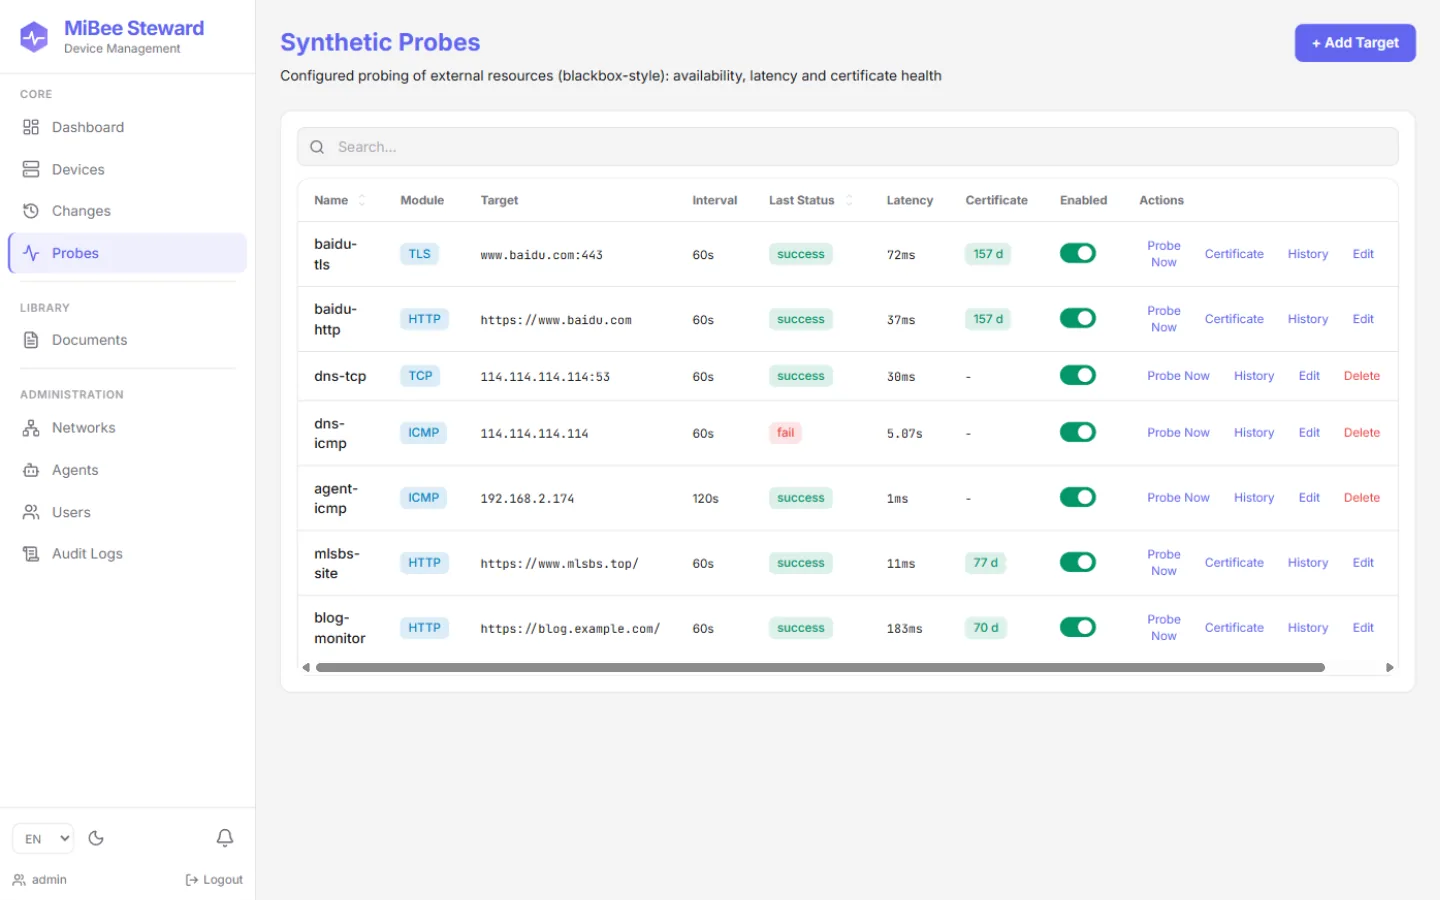
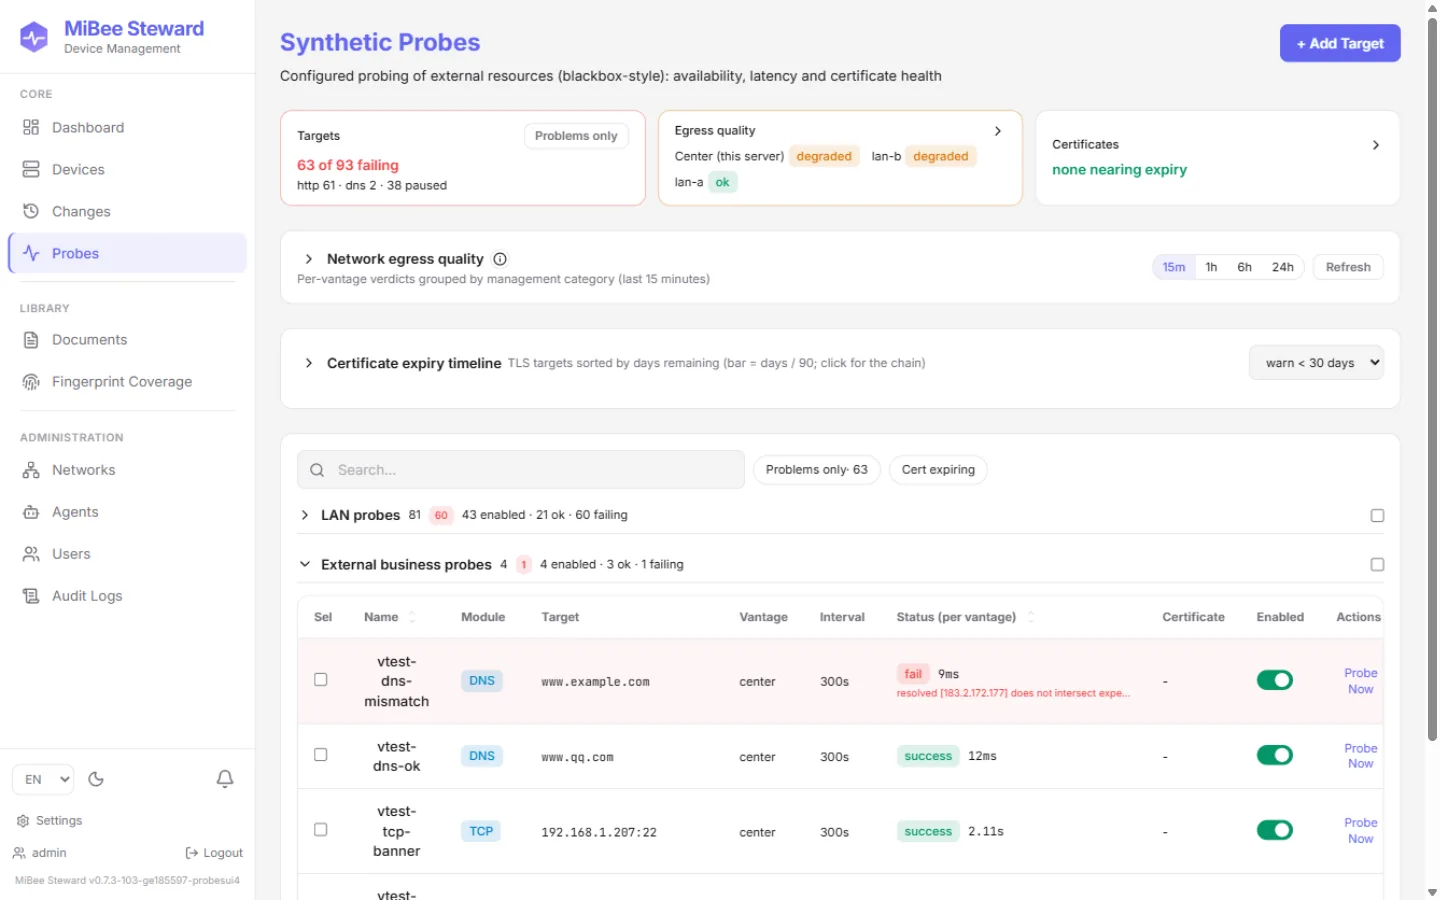
docs(probes): re-shot sanitized screenshots for the new layout + playbook walkthrough refresh
probes.webp (1440x900, health-first overview with the external section
expanded) and pb-probes.webp (1280x800, egress-quality matrices with
window chips) captured through scripts/docs_sanitize_proxy.py against
the test rig; the map (private, outside the repo) now also rewrites
the real probe target names, site domains and network names — verified
zero leakage of hostnames/domains/LAN ranges in the rendered DOM
before capture. en/zh image copies both updated. The playbooks
Scenario 5 walkthrough no longer describes the removed per-module
summary cards and points cert-chain entry at the row badge or the
timeline panel. CHANGELOG en/zh + mirror note the refresh.

diff --git a/CHANGELOG.md b/CHANGELOG.md
@@ -18,7 +18,7 @@ and this project adheres to [Semantic Versioning](https://semver.org/spec/v2.0.0
 - **Probe doc drift fixed (#610)**: the 拨测/probes sections in `docs/{en,zh}/web-ui.md` had claimed DNS support since #277-era copy edits while no dns module existed — with #605 shipped the text becomes true, and every probe doc surface (features, api, architecture, distributed, configuration, agent-rs, introduction, comparison, product-scope) now states the module set exactly as http/tls/tcp/icmp/dns plus the options/binding/quality surfaces; drifted enum comments in `openapi.yaml` were corrected in place.
 
 ### Changed
-- **Probes page redesigned health-first (2026-10-23, tightened 2026-10-24 after rig feedback)**: the page now answers "any problems right now" before anything else. A summary bar leads with the failing-target count (per-module breakdown, one-click *Problems only* filter), the worst egress verdict per vantage, and certificate expiry counts. The target list sorts failing/timeout rows to the top of their section with an error tint, prints a failing track's error message directly in the status cell (full text on hover), and clicking a target's name opens an expandable troubleshoot row — per-vantage latest results, full error text, quick actions (probe / history / certificate / edit) without opening the history modal; the certificate column's days-left badge is itself the chain button now. The per-module overview cards (a success rate riding on single-sample noise, duplicating the section summaries) are gone; their one useful signal survives as the failing-by-module breakdown on the summary bar. **Layout iteration 2 (user feedback: "make it friendlier, collapse by default")**: the egress-quality and certificate panels moved up between the summary bar and the list as one-line collapsible headers, the three list sections default COLLAPSED — each header carries its count, a red failing badge, and the enabled/ok/failing summary so nothing is lost folded — and search/filter matches auto-expand the sections they hit (folding back when cleared). The trend is a collapsible sub-block inside the quality panel whose query runs only on first open. Pure presentation — no API, schema or config changes; the page suite pins the behavior (31 tests, 33 with the trend).
+- **Probes page redesigned health-first (2026-10-23, tightened 2026-10-24 after rig feedback)**: the page now answers "any problems right now" before anything else. A summary bar leads with the failing-target count (per-module breakdown, one-click *Problems only* filter), the worst egress verdict per vantage, and certificate expiry counts. The target list sorts failing/timeout rows to the top of their section with an error tint, prints a failing track's error message directly in the status cell (full text on hover), and clicking a target's name opens an expandable troubleshoot row — per-vantage latest results, full error text, quick actions (probe / history / certificate / edit) without opening the history modal; the certificate column's days-left badge is itself the chain button now. The per-module overview cards (a success rate riding on single-sample noise, duplicating the section summaries) are gone; their one useful signal survives as the failing-by-module breakdown on the summary bar. **Layout iteration 2 (user feedback: "make it friendlier, collapse by default")**: the egress-quality and certificate panels moved up between the summary bar and the list as one-line collapsible headers, the three list sections default COLLAPSED — each header carries its count, a red failing badge, and the enabled/ok/failing summary so nothing is lost folded — and search/filter matches auto-expand the sections they hit (folding back when cleared). The trend is a collapsible sub-block inside the quality panel whose query runs only on first open. Pure presentation — no API, schema or config changes; the page suite pins the behavior (31 tests, 33 with the trend). Docs screenshots re-shot through the sanitizing proxy against the new layout (probes.webp + pb-probes.webp, en/zh) and the playbooks walkthrough rewritten to match; web-ui/api already updated bilingually.
 
 ### Fixed
 - **Probes page 429 storm on autogen fleets (field-reported 2026-10-24)**: the certificate badges fired one `GET /probe-targets/{id}/certificates` per tls/http target on EVERY 10-second list poll — fine at hand-managed scale, but an autogen fleet (50+ http targets on the rig) burst 50+ parallel requests per poll and blew the global 600/min/IP rate limit, filling the browser console with 429s. Certificates are collected by the probe engine per RUN, so the page now stamps each fetched cert with the target's `last_run_at` and refetches only targets whose run advanced — steady state is 1-2 requests per poll (the targets that actually ran), failures cache as empty until the next run (a rate-limited sweep cannot retry-loop), and even the cold-start sweep goes out in chunks of 5. Page test pins the once-per-run behavior (32 tests).

diff --git a/docs/en/changelog.md b/docs/en/changelog.md
@@ -18,7 +18,7 @@ and this project adheres to [Semantic Versioning](https://semver.org/spec/v2.0.0
 - **Probe doc drift fixed (#610)**: the 拨测/probes sections in `docs/{en,zh}/web-ui.md` had claimed DNS support since #277-era copy edits while no dns module existed — with #605 shipped the text becomes true, and every probe doc surface (features, api, architecture, distributed, configuration, agent-rs, introduction, comparison, product-scope) now states the module set exactly as http/tls/tcp/icmp/dns plus the options/binding/quality surfaces; drifted enum comments in `openapi.yaml` were corrected in place.
 
 ### Changed
-- **Probes page redesigned health-first (2026-10-23, tightened 2026-10-24 after rig feedback)**: the page now answers "any problems right now" before anything else. A summary bar leads with the failing-target count (per-module breakdown, one-click *Problems only* filter), the worst egress verdict per vantage, and certificate expiry counts. The target list sorts failing/timeout rows to the top of their section with an error tint, prints a failing track's error message directly in the status cell (full text on hover), and clicking a target's name opens an expandable troubleshoot row — per-vantage latest results, full error text, quick actions (probe / history / certificate / edit) without opening the history modal; the certificate column's days-left badge is itself the chain button now. The per-module overview cards (a success rate riding on single-sample noise, duplicating the section summaries) are gone; their one useful signal survives as the failing-by-module breakdown on the summary bar. **Layout iteration 2 (user feedback: "make it friendlier, collapse by default")**: the egress-quality and certificate panels moved up between the summary bar and the list as one-line collapsible headers, the three list sections default COLLAPSED — each header carries its count, a red failing badge, and the enabled/ok/failing summary so nothing is lost folded — and search/filter matches auto-expand the sections they hit (folding back when cleared). The trend is a collapsible sub-block inside the quality panel whose query runs only on first open. Pure presentation — no API, schema or config changes; the page suite pins the behavior (31 tests, 33 with the trend).
+- **Probes page redesigned health-first (2026-10-23, tightened 2026-10-24 after rig feedback)**: the page now answers "any problems right now" before anything else. A summary bar leads with the failing-target count (per-module breakdown, one-click *Problems only* filter), the worst egress verdict per vantage, and certificate expiry counts. The target list sorts failing/timeout rows to the top of their section with an error tint, prints a failing track's error message directly in the status cell (full text on hover), and clicking a target's name opens an expandable troubleshoot row — per-vantage latest results, full error text, quick actions (probe / history / certificate / edit) without opening the history modal; the certificate column's days-left badge is itself the chain button now. The per-module overview cards (a success rate riding on single-sample noise, duplicating the section summaries) are gone; their one useful signal survives as the failing-by-module breakdown on the summary bar. **Layout iteration 2 (user feedback: "make it friendlier, collapse by default")**: the egress-quality and certificate panels moved up between the summary bar and the list as one-line collapsible headers, the three list sections default COLLAPSED — each header carries its count, a red failing badge, and the enabled/ok/failing summary so nothing is lost folded — and search/filter matches auto-expand the sections they hit (folding back when cleared). The trend is a collapsible sub-block inside the quality panel whose query runs only on first open. Pure presentation — no API, schema or config changes; the page suite pins the behavior (31 tests, 33 with the trend). Docs screenshots re-shot through the sanitizing proxy against the new layout (probes.webp + pb-probes.webp, en/zh) and the playbooks walkthrough rewritten to match; web-ui/api already updated bilingually.
 
 ### Fixed
 - **Probes page 429 storm on autogen fleets (field-reported 2026-10-24)**: the certificate badges fired one `GET /probe-targets/{id}/certificates` per tls/http target on EVERY 10-second list poll — fine at hand-managed scale, but an autogen fleet (50+ http targets on the rig) burst 50+ parallel requests per poll and blew the global 600/min/IP rate limit, filling the browser console with 429s. Certificates are collected by the probe engine per RUN, so the page now stamps each fetched cert with the target's `last_run_at` and refetches only targets whose run advanced — steady state is 1-2 requests per poll (the targets that actually ran), failures cache as empty until the next run (a rate-limited sweep cannot retry-loop), and even the cold-start sweep goes out in chunks of 5. Page test pins the once-per-run behavior (32 tests).

diff --git a/docs/zh/changelog.md b/docs/zh/changelog.md
@@ -18,7 +18,7 @@
 - **拨测文档漂移修复（#610）**：`docs/{en,zh}/web-ui.md` 的拨测小节自 #277 时代的文案改写起就声称支持 DNS，而 dns 模块并不存在——随 #605 落地，该文本终成事实；所有拨测文档面（features、api、architecture、distributed、configuration、agent-rs、introduction、comparison、product-scope）现在都精确表述模块集为 http/tls/tcp/icmp/dns 及选项/绑定/质量各面；`openapi.yaml` 中漂移的枚举注释已就地修正。
 
 ### Changed
-- **拨测页重构为健康优先（2026-10-23，2026-10-24 按 rig 反馈收紧）**：页面现在先回答「现在有没有问题」。顶部总览条领先展示异常目标数（附按模块细分与一键「只看异常」过滤）、每个网络视角的最差出口判定、证书临期计数。目标列表把失败/超时行置顶并加异常底色，失败轨道把错误信息直接印在状态格里（悬停见全文），点击目标名称展开排障行——各视角最新结果、完整错误文本、快捷操作（立即探测 / 历史 / 证书 / 编辑），无需打开历史弹窗；证书列的天数徽章本身即证书链按钮。按模块的总览卡片（建立在单点采样噪声上的成功率，且与分区汇总重复）移除，其唯一有效信号以总览条上的按模块异常细分保留。**第二轮布局迭代（用户反馈：「更友好、默认折叠」）**：出口质量与证书面板上移到总览条与列表之间、折叠为一行标题；三个列表分区默认收起——每个表头带计数、异常红色徽章与「启用/正常/异常」汇总，收起不丢失信号；搜索/过滤命中的分区自动展开、清除后收回。趋势成为质量面板内的子折叠块，查询仅在首次展开时执行。纯展示层变更——无 API、模式或配置改动；页面测试 31 个钉住行为。
+- **拨测页重构为健康优先（2026-10-23，2026-10-24 按 rig 反馈收紧）**：页面现在先回答「现在有没有问题」。顶部总览条领先展示异常目标数（附按模块细分与一键「只看异常」过滤）、每个网络视角的最差出口判定、证书临期计数。目标列表把失败/超时行置顶并加异常底色，失败轨道把错误信息直接印在状态格里（悬停见全文），点击目标名称展开排障行——各视角最新结果、完整错误文本、快捷操作（立即探测 / 历史 / 证书 / 编辑），无需打开历史弹窗；证书列的天数徽章本身即证书链按钮。按模块的总览卡片（建立在单点采样噪声上的成功率，且与分区汇总重复）移除，其唯一有效信号以总览条上的按模块异常细分保留。**第二轮布局迭代（用户反馈：「更友好、默认折叠」）**：出口质量与证书面板上移到总览条与列表之间、折叠为一行标题；三个列表分区默认收起——每个表头带计数、异常红色徽章与「启用/正常/异常」汇总，收起不丢失信号；搜索/过滤命中的分区自动展开、清除后收回。趋势成为质量面板内的子折叠块，查询仅在首次展开时执行。纯展示层变更——无 API、模式或配置改动；页面测试 31 个钉住行为。文档截图经脱敏代理对新布局重拍（probes.webp 与 pb-probes.webp，en/zh），playbooks 演练段落同步改写；web-ui/api 已先行双语更新。
 
 ### Fixed
 - **拨测页在 autogen 舰队上的 429 风暴（用户报障 2026-10-24）**：证书徽章在每 10 秒的列表轮询中对每个 tls/http 目标各发一个 `GET /probe-targets/{id}/certificates`——手工管理规模下没问题，但 autogen 舰队（rig 上 50+ 个 http 目标）每轮并发 50+ 请求，打爆全局 600/分钟/IP 限流，浏览器控制台刷满 429。证书由探测引擎**每次运行**采集，现按目标的 `last_run_at` 盖章缓存、仅重取真正跑过的目标——稳态每轮 1-2 个请求；失败也缓存为空等下次运行（限流过的扫描不会重试循环）；冷启动扫描也按 5 个一批限并发。页面测试钉住"每次运行只拉一次"（32 个）。

diff --git a/docs/en/playbooks.md b/docs/en/playbooks.md
@@ -90,11 +90,11 @@ Beginner-friendly walkthroughs: a handful of real scenarios, each 5–15 minutes
    - `host:port` for TCP reachability, plain ICMP for connectivity;
    - DNS resolution (e.g. `example.com`) to watch your resolver path — optionally pin a public resolver or assert expected answer IPs.
    Keep the default interval (anything from 10s to 24h is available).
-2. Results arrive within seconds. The page top summarizes success rate and average latency per module; the target list below carries status, latency, and **cert-days-remaining badges**.
+2. Results arrive within seconds. The page opens collapsed on a health summary bar — the failing-target count with a one-click *Problems only* filter, the worst egress verdict per network vantage, and certificate-expiry counts. Expand a category section and failing rows sort to the top, error message printed right in the status cell; the egress-quality panel's matrices (lookback chips up to 24h) and its 7-day/30-day trend answer "is it just down now, or has it been like this all week".
 
    ![Probes overview](images/pb-probes.webp)
 
-3. Click any bar in the "certificate expiry timeline" to open the **full certificate chain** modal, leaf and intermediate CA subjects, issuers, serials, SANs, validity, with one-click PEM copy.
+3. Click a row's cert-days-remaining badge — or a bar in the "certificate expiry timeline" panel — to open the **full certificate chain** modal, leaf and intermediate CA subjects, issuers, serials, SANs, validity, with one-click PEM copy.
 
    ![Certificate chain](images/pb-probe-certchain.webp)
 

diff --git a/docs/zh/playbooks.md b/docs/zh/playbooks.md
@@ -90,11 +90,11 @@
    - TCP 端口连通性用 `host:port`，纯连通用 ICMP；
    - DNS 解析（如 `example.com`）盯解析链路--可指定公共解析器，或断言期望的应答 IP。
    间隔默认即可（也可设 10 秒到 24 小时）。
-2. 保存后几秒内出结果。拨测页顶部按模块汇总成功率与平均延迟，下方目标列表带状态、延迟与**证书剩余天数徽章**。
+2. 保存后几秒内出结果。页面默认收起在健康总览条上--异常目标数（附一键「只看异常」过滤）、每个网络视角的最差出口判定、证书临期计数。展开分区后失败行置顶、错误信息直接印在状态格里；出口质量面板的矩阵（回看胶囊最长 24 小时）与 7 天/30 天趋势回答「是刚刚坏了，还是这一周都这样」。
 
    ![拨测总览](images/pb-probes.webp)
 
-3. 点击「证书到期时间线」里的任意一条，打开**完整证书链**模态框--叶证书与中间 CA 的主题、颁发者、序列号、SAN、有效期，可一键复制 PEM。
+3. 点击行内**证书剩余天数徽章**（或「证书到期时间线」面板里的任意一条），打开**完整证书链**模态框--叶证书与中间 CA 的主题、颁发者、序列号、SAN、有效期，可一键复制 PEM。
 
    ![证书链](images/pb-probe-certchain.webp)
 
